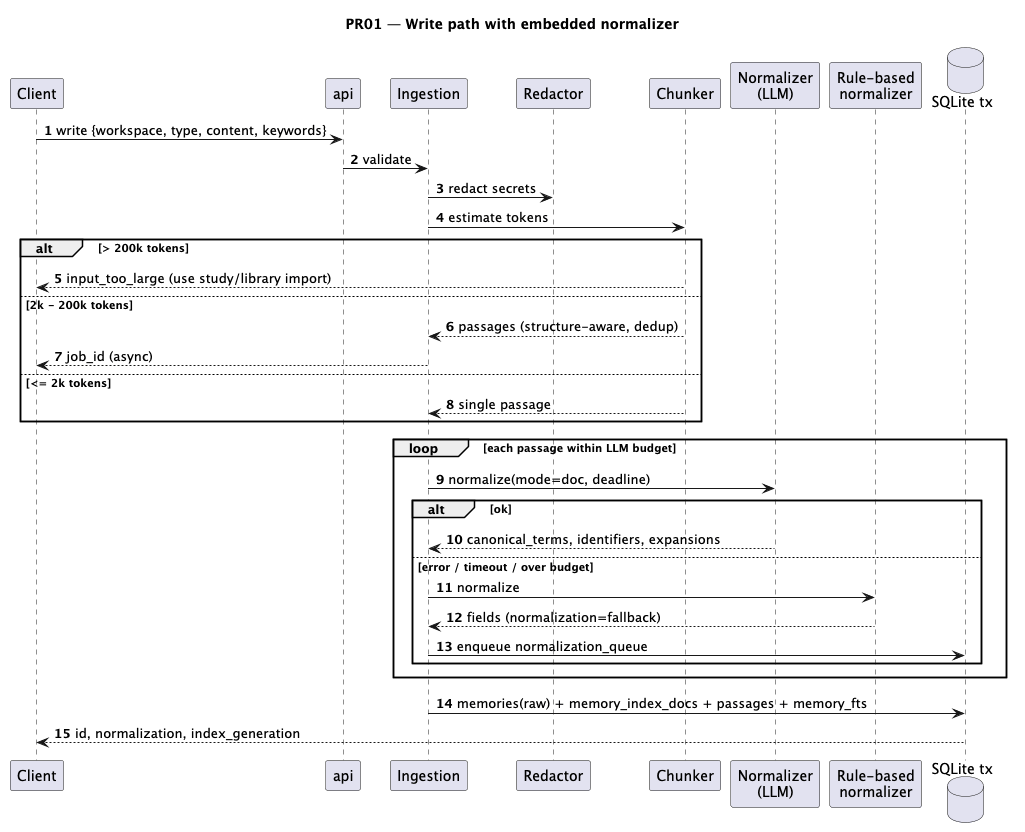
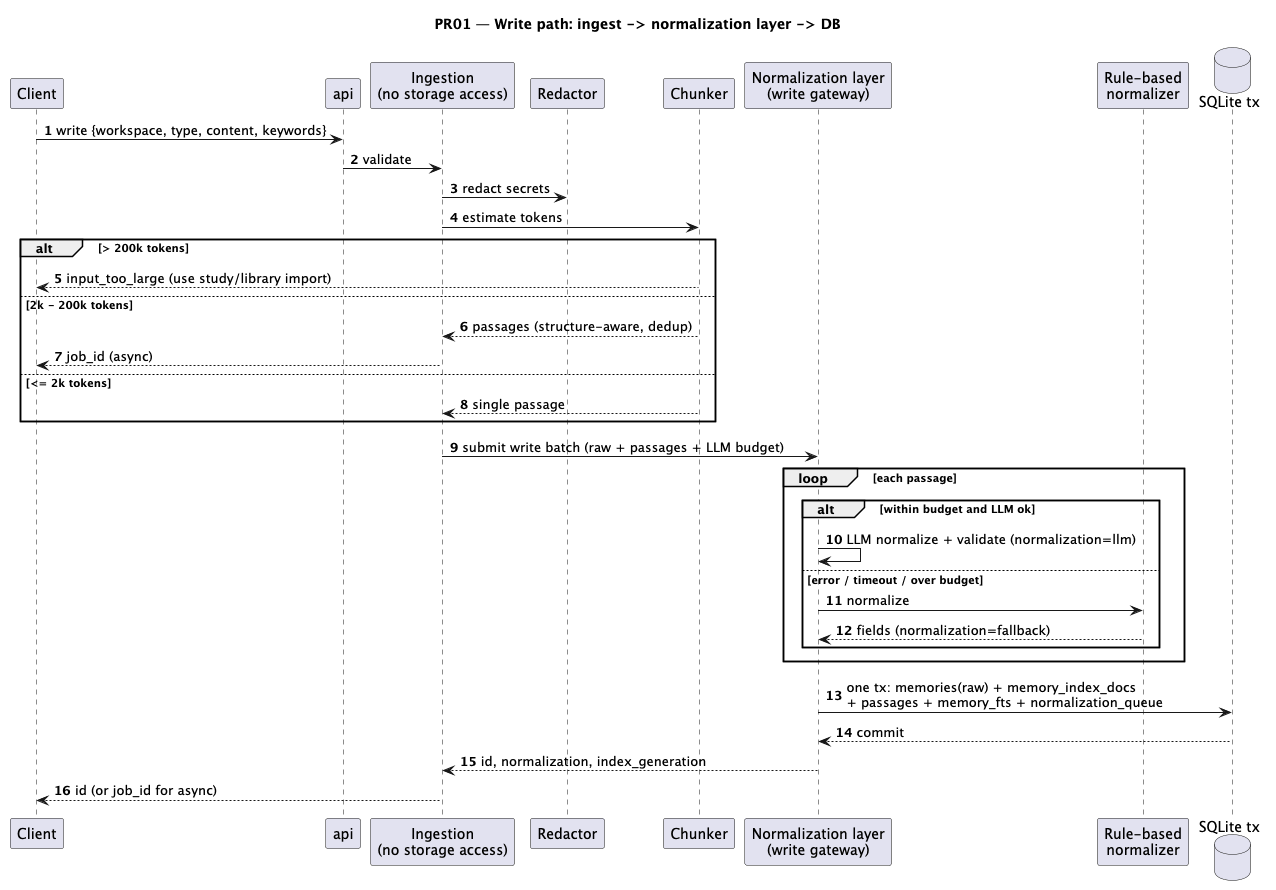
Route all PR01 writes through the normalization layer (AD-12)
Ingest no longer writes to storage directly. It prepares a write batch
(redacted, chunked, deduplicated, with an LLM budget) and hands it to
the normalization layer, which is the only gateway that writes content,
index docs, passages, FTS rows and the re-normalization queue, in one
transaction. Consolidation output and migration reindex use the same
gateway; the engine may only update lifecycle metadata directly and
search only reads.

Updates the architecture spine, solution design, epics (Story 4.4 AC)
and the container and write-path PlantUML diagrams.

Changed region(s): [[0.0, 0.0, 0.999, 0.875], [0.0, 0.875, 0.999, 1.0]]

diff --git a/docs/pr01/planning-artifacts/architecture/architecture-agent-memory-2026-10-20/ARCHITECTURE-SPINE.md b/docs/pr01/planning-artifacts/architecture/architecture-agent-memory-2026-10-20/ARCHITECTURE-SPINE.md
@@ -28,8 +28,8 @@ Lõi phân tầng (interface → application → domain engines → infrastructu
 |---|---|
 | Interface | `internal/cli`, `internal/api`, `tools/agent-memory/mcp-server` |
 | Application | `internal/application` |
-| Pipelines | `internal/ingest` (mới: chunker, dedup, queue), `internal/search` (mới: BM25 query builder, aggregation, rerank) |
-| Normalizer | `internal/normalize` (mới: tokenizer, rule-based, LLM adapter) |
+| Pipelines | `internal/ingest` (mới: redact, chunker, dedup, LLM budget, job orchestration — **không phụ thuộc storage**), `internal/search` (mới: BM25 query builder, aggregation, rerank — chỉ đọc storage) |
+| Normalization layer | `internal/normalize` (mới: tokenizer, rule-based, LLM adapter, validator, và **cổng ghi duy nhất** vào storage cho nội dung và chỉ mục) |
 | Domain | `internal/core`, `internal/engine` (lifecycle, recall assembly) |
 | Infrastructure | `internal/storage/sqlite` (FTS5, index tables) |
 
@@ -50,10 +50,10 @@ flowchart TB
     APP --> ING
     APP --> SRCH
     APP --> ENG
-    ING --> NORM
-    SRCH --> NORM
-    ING --> ST
-    SRCH --> ST
+    ING -->|"write batch"| NORM
+    SRCH -->|"normalize(query)"| NORM
+    NORM -->|"only write path"| ST
+    SRCH -->|"read only"| ST
     ENG --> ST
     ING --> CORE
     SRCH --> CORE
@@ -128,6 +128,12 @@ flowchart TB
 - **Prevents:** làm vỡ agent đang dùng `memory_*`, `solution_*`, `skill_*`
 - **Rule:** response hiện có chỉ được thêm field. `semantic` là alias của `lexical` trong đúng một release. Thay đổi phá vỡ duy nhất là gỡ harness/Jev/local-llm theo AD-10.
 
+### AD-12 — Mọi nội dung đi qua normalization layer rồi mới vào DB
+
+- **Binds:** FR-12, FR-13, FR-14, FR-18, FR-19, FR-21, `internal/ingest`, `internal/normalize`, `internal/engine`, `internal/storage/sqlite`
+- **Prevents:** một đường ghi bỏ qua chuẩn hoá (ingest ghi thẳng DB, consolidation tạo memory mới không có index, migration index dữ liệu cũ bằng tokenizer khác), làm chỉ mục lệch version hoặc thiếu field
+- **Rule:** `ingest` không import `storage`. Nó chỉ chuẩn bị write batch (đã redact, chunk, dedup, kèm ngân sách LLM) và chuyển cho `normalize`. `normalize` là **cổng ghi duy nhất** cho `memories.content`, `memory_index_docs`, `passages`, `memory_fts` và `normalization_queue`: nó chuẩn hoá (LLM hoặc fallback) rồi ghi tất cả trong **một transaction**. Nội dung do lifecycle sinh ra (consolidation, reconstruction) và việc reindex khi migration hay đổi version cũng phải đi qua cổng này. `engine` chỉ được ghi trực tiếp các cột metadata vòng đời (decay, access, suppression, tier, supersession). `search` chỉ đọc storage. Trạng thái job bất đồng bộ được lưu qua cổng ghi của `normalize`, không qua `ingest`.
+
 ## Consistency Conventions
 
 | Concern | Convention |
@@ -146,15 +152,17 @@ flowchart TB
 | --- | --- |
 | Go | 1.26.3 |
 | SQLite driver | modernc.org/sqlite v1.50.0 (FTS5 cần spike xác nhận) |
-| Normalizer runtime | llama.cpp nhúng qua cgo — version chốt ở spike S4.1 |
-| Normalizer model | Decoder đa ngôn ngữ 0.5–1.5B, Q4 — chốt ở spike S4.1 |
+| Normalizer runtime | llama.cpp nhúng qua cgo — version chốt ở spike Story 4.1 |
+| Normalizer model | Decoder đa ngôn ngữ 0.5–1.5B, Q4 — chốt ở spike Story 4.1 |
 | MCP adapter | Node (adapter hiện có) |
 
 ## Structural Seed
 
 ```mermaid
 flowchart LR
-    W["write"] --> RED["redact"] --> CH["chunk + dedup"] --> N1["normalize(doc)"] --> TX["tx: memories + memory_index_docs + passages + memory_fts"]
+    W["write"] --> RED["ingest: redact"] --> CH["ingest: chunk + dedup + budget"] --> N1["normalization layer: normalize(doc) + validate"] --> TX["normalization layer → storage: one tx (memories + memory_index_docs + passages + memory_fts + queue)"]
+    LC["engine: consolidation / reconstruction output"] --> N1
+    MIG["migration / version reindex"] --> N1
     Q["query"] --> FP{"fast path?"}
     FP -->|"yes"| RB["rule-based"]
     FP -->|"no"| N2["normalize(query) + cache"]
@@ -175,8 +183,8 @@ erDiagram
 
 ```text
 internal/
-  normalize/   # tokenizer, rule-based, LLM adapter, validator
-  ingest/      # chunker, dedup, LLM budget, async jobs, queue worker
+  normalize/   # tokenizer, rule-based, LLM adapter, validator, write gateway (only writer of content + index), queue worker
+  ingest/      # redact, chunker, dedup, LLM budget, job orchestration (no storage import)
   search/      # query builder, FTS5 executor, aggregation, score normalization
   engine/      # rerank signals, graph expansion, recall assembly, lifecycle
   storage/sqlite/  # FTS5 schema, index tables, migrations
@@ -189,16 +197,16 @@ internal/
 | FR-1..FR-6 truy xuất BM25 | `search`, `engine`, `storage/sqlite` | AD-1, AD-2, AD-3, AD-11 |
 | FR-7, FR-8 tách Jev/mini LLM | `cli`, `api`, module ngoài | AD-10, AD-11 |
 | FR-9..FR-11 tokenizer | `normalize` | AD-2, AD-3 |
-| FR-12..FR-14 chuẩn hoá lúc ghi | `ingest`, `normalize` | AD-4, AD-5, AD-6, AD-7, AD-8 |
+| FR-12..FR-14 chuẩn hoá lúc ghi | `ingest` → `normalize` → `storage/sqlite` | AD-4, AD-5, AD-6, AD-7, AD-8, AD-12 |
 | FR-15..FR-17 chuẩn hoá query | `search`, `normalize` | AD-4, AD-6 |
-| FR-18..FR-20 văn bản lớn | `ingest`, `search` | AD-9, AD-6 |
-| FR-21 migration | `storage/sqlite`, `cli upgrade` | AD-8, AD-11 |
+| FR-18..FR-20 văn bản lớn | `ingest` → `normalize`; `search` | AD-9, AD-6, AD-12 |
+| FR-21 migration | `cli upgrade` → `normalize` → `storage/sqlite` | AD-8, AD-11, AD-12 |
 
 ## Deferred
 
 | Hạng mục | Lý do có thể chờ |
 | --- | --- |
-| Chọn model và runtime cụ thể | Cần số đo thực tế từ spike S4.1 |
+| Chọn model và runtime cụ thể | Cần số đo thực tế từ spike Story 4.1 |
 | BM25F thật (k1/b theo field, chỉ mục postings tự viết) | Chỉ cần nếu spike FTS5 thất bại hoặc benchmark đòi hỏi |
 | Thay embedding trong consolidation/conflict (MinHash/Jaccard) | Thuộc epic migration; không chặn đường truy xuất |
 | Thời điểm drop `memory_vectors`, `memory_terms` | Sau một release ổn định ở P3 |

diff --git a/docs/pr01/planning-artifacts/architecture/architecture-agent-memory-2026-10-20/solution-design.md b/docs/pr01/planning-artifacts/architecture/architecture-agent-memory-2026-10-20/solution-design.md
@@ -69,15 +69,16 @@ flowchart TB
     App --> Ingest --> Norm
     App --> Search --> Norm
     Norm --> Model
-    Ingest --> Mem
-    Ingest --> Doc
-    Ingest --> Pass
-    Ingest --> NQ
+    Norm -->|"cổng ghi duy nhất, 1 tx"| Mem
+    Norm --> Doc
+    Norm --> Pass
+    Norm --> NQ
     Doc --> FTS
     Pass --> FTS
-    Search --> FTS
+    Search -->|"chỉ đọc"| FTS
     Search --> QC
-    Life --> Mem
+    Life -->|"nội dung mới (consolidation)"| Norm
+    Life -->|"chỉ metadata vòng đời"| Mem
     Harness -.->|"HTTP public API, không import nội bộ"| API
     Ext -.-> Harness
 ```
@@ -176,30 +177,34 @@ Tokenizer được version hoá (`tokenizer_version`). Đổi version thì phả
 sequenceDiagram
     participant C as "Client"
     participant API as "api"
-    participant ING as "Ingestion pipeline"
+    participant ING as "Ingestion pipeline (không có storage)"
     participant CH as "Chunker"
-    participant N as "Normalizer"
+    participant N as "Normalization layer (cổng ghi)"
     participant DB as "SQLite (tx)"
     C->>API: "write {workspace, type, content, keywords}"
     API->>ING: "validate (size, workspace, path safety)"
+    ING->>ING: "redact"
     ING->>CH: "size > ngưỡng?"
-    CH-->>ING: "1 hoặc nhiều passage"
+    CH-->>ING: "1 hoặc nhiều passage (dedup, ngân sách LLM)"
+    ING->>N: "submit write batch (raw + passages + budget)"
     loop "mỗi passage (song song có giới hạn)"
-        ING->>N: "normalize(passage, mode=doc)"
-        alt "LLM OK trong timeout"
-            N-->>ING: "fields (normalization=llm)"
-        else "lỗi / timeout / quá tải"
-            N-->>ING: "fields (normalization=fallback)"
-            ING->>DB: "enqueue normalization_queue"
+        alt "trong ngân sách và LLM OK trong timeout"
+            N->>N: "LLM normalize + validate (normalization=llm)"
+        else "lỗi / timeout / ngoài ngân sách"
+            N->>N: "rule-based (normalization=fallback)"
         end
     end
-    ING->>DB: "tx: memories (raw), memory_index_docs, passages, memory_fts"
-    DB-->>C: "{id, normalization, index_generation}"
+    N->>DB: "1 tx: memories (raw), memory_index_docs, passages, memory_fts, normalization_queue (doc fallback)"
+    DB-->>N: "commit"
+    N-->>ING: "{id, normalization, index_generation}"
+    ING-->>C: "{id, normalization, index_generation} hoặc job_id"
 ```
 
+**Quy tắc lớp (AD-12):** `ingest` không có quyền truy cập storage. Mọi nội dung chỉ vào DB qua normalization layer, kể cả output của consolidation/reconstruction và việc reindex khi migration hoặc đổi version. `engine` chỉ ghi trực tiếp metadata vòng đời; `search` chỉ đọc.
+
 - Văn bản ngắn chạy đồng bộ. Văn bản lớn chạy bất đồng bộ: trả về `job_id` ngay, phần còn lại xem tài liệu 04.
-- Worker nền xử lý `normalization_queue` (fallback → LLM) và reindex khi `normalizer_version` đổi, theo lô, có giới hạn CPU.
-- Consolidation và conflict detection hiện đang dùng độ tương đồng embedding. Sau thay đổi sẽ dùng **độ tương đồng BM25 / Jaccard trên `canonical_terms`** (MinHash cho tập lớn).
+- Worker nền xử lý `normalization_queue` (fallback → LLM) và reindex khi `normalizer_version` đổi, theo lô, có giới hạn CPU. Worker này thuộc normalization layer và ghi qua chính cổng ghi đó.
+- Consolidation và conflict detection hiện đang dùng độ tương đồng embedding. Sau thay đổi sẽ dùng **độ tương đồng BM25 / Jaccard trên `canonical_terms`** (MinHash cho tập lớn). Memory mới do consolidation sinh ra được gửi vào normalization layer như một write batch, không được ghi thẳng vào DB.
 
 ### 3.5 Luồng tìm (query)
 

diff --git a/docs/pr01/planning-artifacts/epics.md b/docs/pr01/planning-artifacts/epics.md
@@ -52,7 +52,7 @@ Tài liệu này chia PR01 thành epic và story có thể triển khai được
 
 ### Additional Requirements
 
-- Architecture spine AD-1..AD-11 là ràng buộc bắt buộc cho mọi story.
+- Architecture spine AD-1..AD-12 là ràng buộc bắt buộc cho mọi story.
 - Spike FTS5 (Story 1.1) và spike model (Story 4.1) chặn các story phụ thuộc.
 - Open questions Q2 (cgo) và Q3 (model) chặn Epic 4.
 
@@ -363,6 +363,7 @@ So that chỉ mục bắt được paraphrase và không chứa secret.
 **When** ghi
 **Then** nội dung gốc không đổi và p95 ≤ 400 ms (SM-5)
 **And** secret đã redact không xuất hiện trong `expansions`
+**And** `go list` của `internal/ingest` không import `internal/storage`; mọi ghi nội dung và chỉ mục đi qua cổng ghi của normalization layer trong một transaction (AD-12)
 
 ### Story 4.5: Normalization queue và reindex theo version
 

diff --git a/docs/pr01/planning-artifacts/architecture/architecture-agent-memory-2026-10-20/.memlog.md b/docs/pr01/planning-artifacts/architecture/architecture-agent-memory-2026-10-20/.memlog.md
@@ -1,6 +1,6 @@
 ---
 topic: agent-memory BM25 + normalizer architecture spine
-updated: 2026-10-20T13:51
+updated: 2026-10-20T14:11
 ---
 
 - (decision by claude) AD-1 BM25 is the only candidate source; AD-2 FTS5 external content with Go pre-tokenization
@@ -8,3 +8,4 @@ updated: 2026-10-20T13:51
 - (decision by claude) AD-7 normalizer in-process with pinned model hash and no runtime egress; distinguishes it from the removed Ollama planner
 - (decision by claude) AD-9 large text indexed at passage level with size tiers; AD-10 core excludes harness, Jev, mini LLM, embeddings
 - (event by claude) lint_spine.py passed with 0 findings
+- (decision by user) AD-12: ingest must pass through the normalization layer before reaching the DB; normalize is the only write gateway for content and index (incl. consolidation output and migration reindex); ingest has no storage import

diff --git a/docs/pr01/README.md b/docs/pr01/README.md
@@ -8,7 +8,7 @@ docs/pr01/
     briefs/brief-agent-memory-2026-10-20/         brief.md, addendum.md, .memlog.md
     prds/prd-agent-memory-2026-10-20/             prd.md, addendum.md, .memlog.md
     architecture/architecture-agent-memory-2026-10-20/
-      ARCHITECTURE-SPINE.md                       AD-1..AD-11 (lint_spine: 0 findings)
+      ARCHITECTURE-SPINE.md                       AD-1..AD-12 (lint_spine: 0 findings)
       solution-design.md                          companion: thiết kế chi tiết, phương án, rủi ro, rollout
       large-text-input.md                         companion: 10 phương án cho văn bản lớn
       diagrams/                                   PlantUML (.puml, png, svg)
